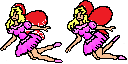
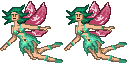
help screen teilweise
good pixie pics ausgetauscht,
help Button unter Ordner menu,
HelpScreen teilweise erstellt

diff --git a/core/src/at/aau/game/screens/HelpScreen.java b/core/src/at/aau/game/screens/HelpScreen.java
@@ -1,0 +1,77 @@
+package at.aau.game.screens;
+
+import at.aau.game.GameConstants;
+import at.aau.game.PixieSmack;
+import at.aau.game.ScreenManager;
+
+import com.badlogic.gdx.Gdx;
+import com.badlogic.gdx.Input;
+import com.badlogic.gdx.ScreenAdapter;
+import com.badlogic.gdx.graphics.GL20;
+import com.badlogic.gdx.graphics.OrthographicCamera;
+import com.badlogic.gdx.graphics.Texture;
+import com.badlogic.gdx.graphics.g2d.BitmapFont;
+import com.badlogic.gdx.graphics.g2d.SpriteBatch;
+
+public class HelpScreen extends ScreenAdapter {
+	private PixieSmack parentGame;
+	Texture backgroundImage;
+	BitmapFont menuFont;
+	BitmapFont describe;
+	private final OrthographicCamera cam;
+	private final SpriteBatch batch;
+	String helpString = "Help";
+	String collect = "Catch fairy dust\n till the time is end!";
+
+	
+	
+	float offsetLeft = PixieSmack.MENU_GAME_WIDTH / 6,
+			offsetTop = PixieSmack.MENU_GAME_WIDTH / 20,
+			offsetY = PixieSmack.MENU_GAME_HEIGHT / 8;
+	
+	public HelpScreen(PixieSmack game) {
+		this.parentGame = game;
+
+		backgroundImage = parentGame.getAssetManager().get("menu/menu_background_empty.png");
+		menuFont = parentGame.getAssetManager().get("menu/Ravie_72.fnt");
+		menuFont.getRegion().getTexture().setFilter(Texture.TextureFilter.Linear, Texture.TextureFilter.Linear);
+		menuFont.setColor(GameConstants.COLOR_PINK);
+		
+		describe = parentGame.getAssetManager().get("menu/Ravie_42.fnt");
+		describe.getRegion().getTexture().setFilter(Texture.TextureFilter.Linear, Texture.TextureFilter.Linear);
+		describe.setColor(GameConstants.COLOR_PINK);
+		
+		cam = new OrthographicCamera(PixieSmack.MENU_GAME_WIDTH, PixieSmack.MENU_GAME_HEIGHT);
+		cam.position.set(cam.viewportWidth / 2f, cam.viewportHeight / 2f, 0);
+		cam.update();
+		
+		batch = new SpriteBatch();
+		
+	}
+	
+	@Override
+	public void render(float delta){
+		handleInput();
+		cam.update();
+		batch.setProjectionMatrix(cam.combined);
+
+		Gdx.gl.glClearColor(0.3f, 0.3f, 0.3f, 1);
+		Gdx.gl.glClear(GL20.GL_COLOR_BUFFER_BIT);
+		batch.begin();
+		// draw bgImage ...
+		batch.draw(backgroundImage, 0, 0, PixieSmack.MENU_GAME_WIDTH, PixieSmack.MENU_GAME_HEIGHT);
+		menuFont.draw(batch, helpString, offsetLeft, PixieSmack.MENU_GAME_HEIGHT - offsetTop);
+		
+		describe.draw(batch, collect, offsetLeft, PixieSmack.MENU_GAME_HEIGHT - offsetTop -0 * offsetY -120);
+
+		
+		batch.end();
+	}
+	
+	private void handleInput() {
+		if (Gdx.input.isKeyJustPressed(Input.Keys.ANY_KEY) || Gdx.input.justTouched()) {
+			parentGame.getScreenManager().setCurrentState(ScreenManager.ScreenState.Menu);
+		}
+	}
+
+}

diff --git a/core/src/at/aau/game/screens/MenuScreen.java b/core/src/at/aau/game/screens/MenuScreen.java
@@ -16,6 +16,8 @@ import com.badlogic.gdx.graphics.Texture;
 import com.badlogic.gdx.graphics.g2d.BitmapFont;
 import com.badlogic.gdx.graphics.g2d.SpriteBatch;
 import com.badlogic.gdx.math.Vector3;
+import com.badlogic.gdx.scenes.scene2d.ui.ImageButton;
+import com.badlogic.gdx.scenes.scene2d.ui.ImageButton.ImageButtonStyle;
 
 public class MenuScreen extends ScreenAdapter {
 	private final SpriteBatch batch;
@@ -24,6 +26,8 @@ public class MenuScreen extends ScreenAdapter {
 	Texture backgroundImage;
 	BitmapFont menuFont;
 	//Music menuMusic;
+	//ImageButton imageButton;
+	//ImageButtonStyle imageButtonStyle;
 
 	String[] menuStrings = { GameConstants.NEW_GAME, GameConstants.RESUME_GAME, "Hall Of Fame", "Credits", "Exit" };
 	int currentMenuItem = 0;
@@ -49,6 +53,9 @@ public class MenuScreen extends ScreenAdapter {
 		//menuMusic = Gdx.audio.newMusic(Gdx.files.internal(GameConstants.MUSIC_INTRO));
 		//menuMusic.setLooping(true);
 		//menuMusic.play();
+		//imageButtonStyle = new ImageButtonStyle();
+		//imageButtonStyle.imageUp = 
+		//imageButton = new ImageButton();
 		
 	}
 

diff --git a/core/src/at/aau/game/ScreenManager.java b/core/src/at/aau/game/ScreenManager.java
@@ -4,6 +4,7 @@ import com.badlogic.gdx.Screen;
 
 import at.aau.game.screens.CreditsScreen;
 import at.aau.game.screens.GameplayScreen;
+import at.aau.game.screens.HelpScreen;
 import at.aau.game.screens.HighscoreScreen;
 import at.aau.game.screens.LoadingScreen;
 import at.aau.game.screens.MenuScreen;
@@ -47,6 +48,8 @@ public class ScreenManager {
 				playScreen.show();
 			} else if (state == ScreenState.Highscore) {
 				currentScreen = new HighscoreScreen(parentGame);
+			} else if (state == ScreenState.Help){
+				currentScreen = new HelpScreen(parentGame);
 			}
 		}
 	}
